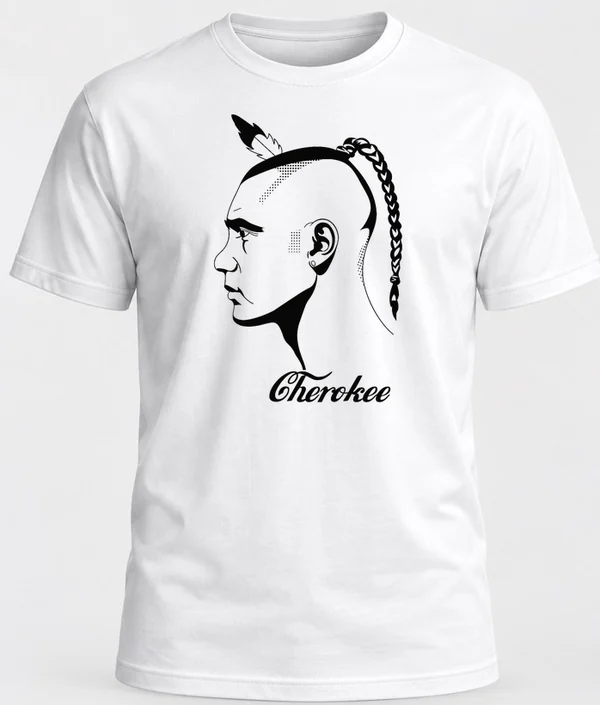
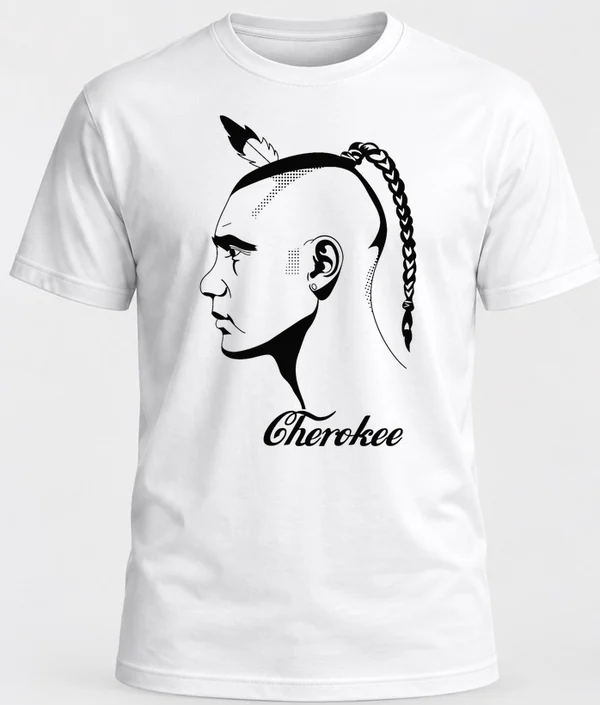
Mockups: prints 15% larger, buffalo lowered 2 inches
Claude-Session: https://claude.ai/code/session_01GspHfAVRnnTFygQLiLQ2RQ

Changed region(s): [[0.33, 0.156, 0.72, 0.6553]]

diff --git a/tools/shirt-mockups/make_mockups.py b/tools/shirt-mockups/make_mockups.py
@@ -15,7 +15,9 @@ config.json:
   shirts     per color: "crop" = [x0, y0, x1, y1] box around that shirt in the photo,
              "print" = [x, y, w, h] largest print area on the chest (photo pixels);
              art is scaled to fit inside it, centered left-right and aligned to the top
-  designs    id -> art file (same ids as CONFIG.designs in shirts/index.html)
+  px_per_inch  photo pixels per inch of shirt (chest width in pixels / chest width in inches)
+  designs    id -> art file (same ids as CONFIG.designs in shirts/index.html), or
+             {"art": file, "lower_in": inches} to move one design down (negative = up)
 """
 import json, os, sys
 import numpy as np
@@ -42,10 +44,11 @@ def place(art, box):
     return a, (round(x + (w - a.width) / 2), round(y))
 
 
-def mockup(blank, shirt, art):
+def mockup(blank, shirt, art, dy=0):
     photo = blank.convert("RGB")
     shade = shading_map(photo)
     a, (ox, oy) = place(art.convert("RGBA"), shirt["print"])
+    oy += round(dy)
 
     base = np.asarray(photo, dtype=np.float32)
     out = base.copy()
@@ -65,10 +68,12 @@ def main(config_path):
     blank = Image.open(os.path.join(ROOT, cfg["blank"]))
     out_dir = os.path.join(ROOT, cfg["out_dir"])
     os.makedirs(out_dir, exist_ok=True)
-    for did, art_path in cfg["designs"].items():
-        art = Image.open(os.path.join(ROOT, art_path))
+    for did, spec in cfg["designs"].items():
+        spec = spec if isinstance(spec, dict) else {"art": spec}
+        art = Image.open(os.path.join(ROOT, spec["art"]))
+        dy = spec.get("lower_in", 0) * cfg["px_per_inch"]
         for color, shirt in cfg["shirts"].items():
-            img = mockup(blank, shirt, art)
+            img = mockup(blank, shirt, art, dy)
             img = img.resize((cfg["out_width"], round(img.height * cfg["out_width"] / img.width)), Image.LANCZOS)
             dest = os.path.join(out_dir, f"{did}-{color.lower()}.webp")
             img.save(dest, quality=86, method=6)
